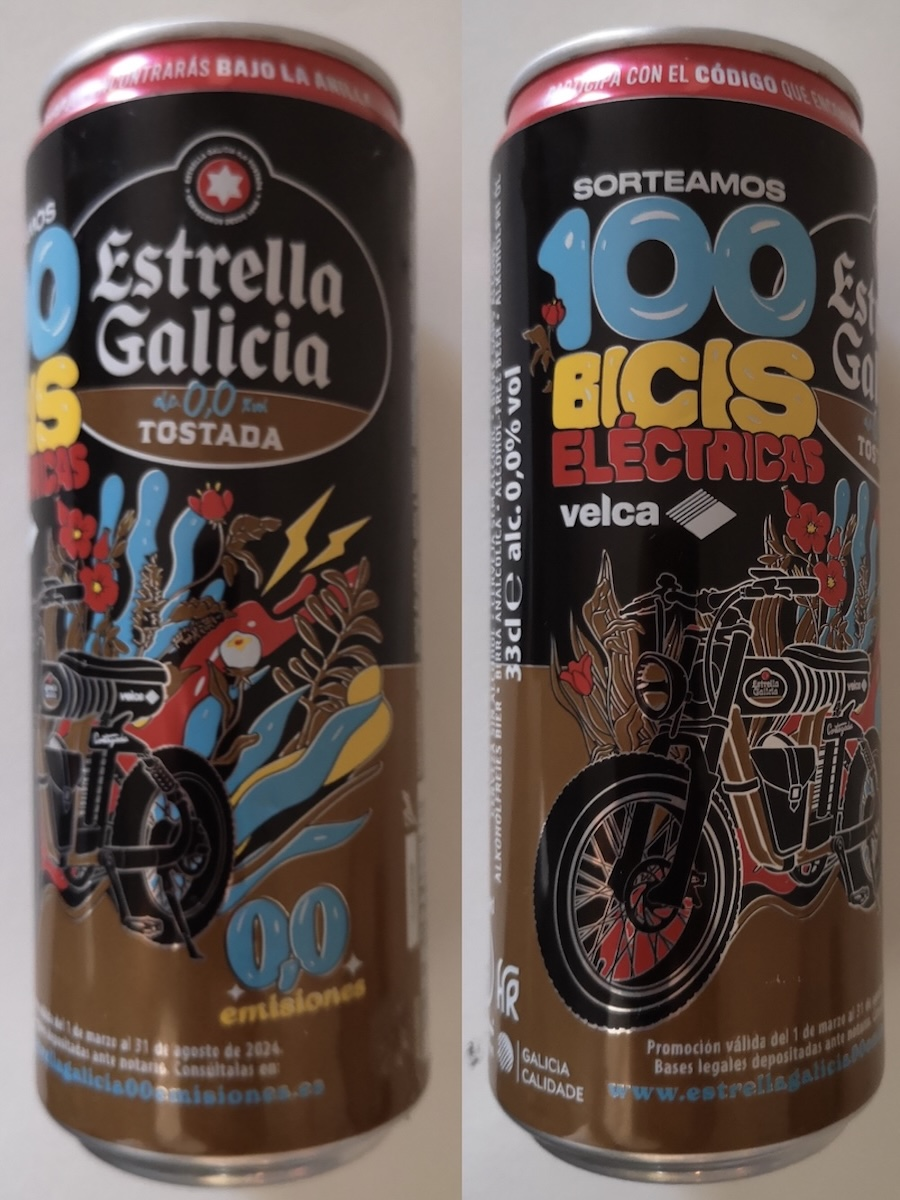
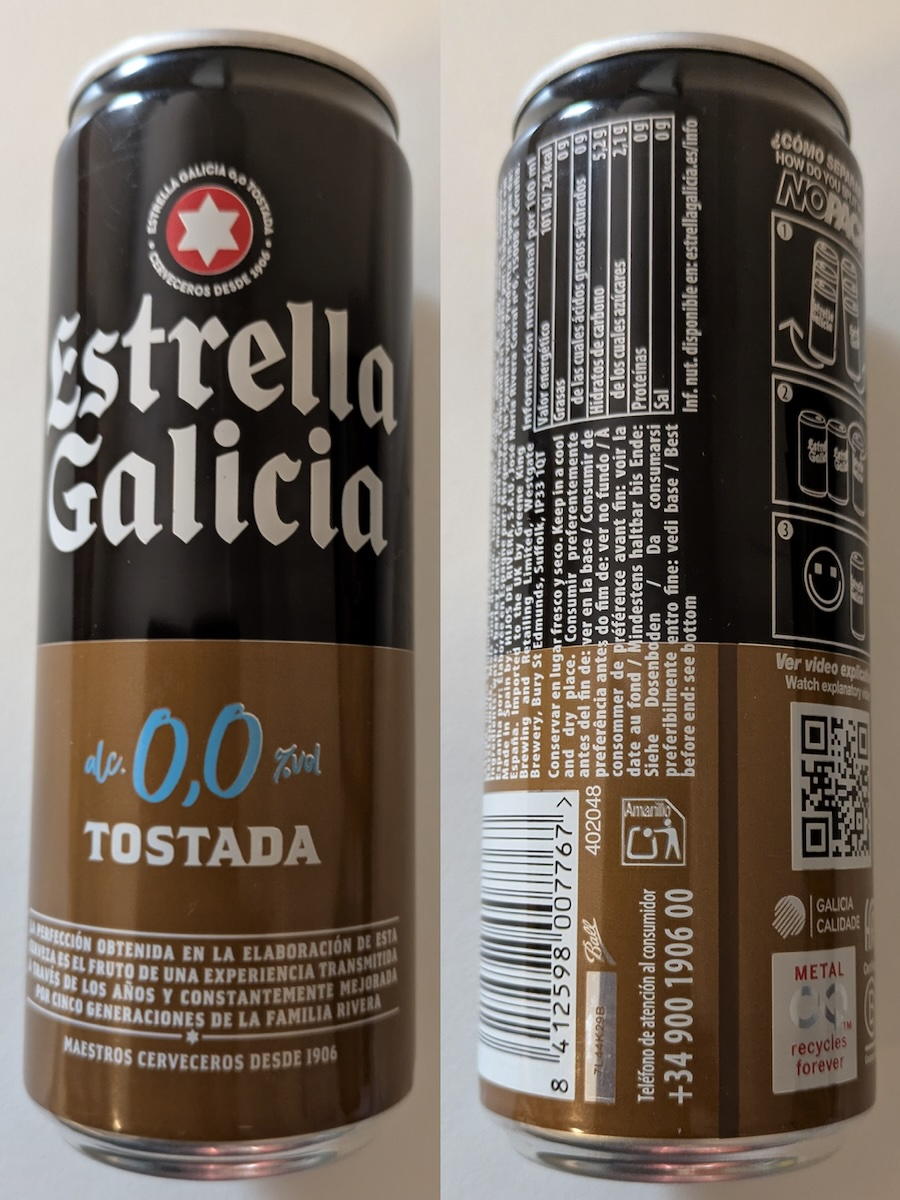
new

diff --git a/index.html b/index.html
@@ -69,9 +69,11 @@
             { name: 'San Miguel Radler 0,0%', brewery: 'San Miguel', country: 'Spain', targetMarket: 'Spain', continent: 'Europe', volume: '330ml', abv: '0,0%', year: '2024', image: 'img/Spain/SanMiguel/San_Miguel_Radler_0_330ml.jpg' },
             { name: 'San Miguel Radler', brewery: 'San Miguel', country: 'Spain', targetMarket: 'Spain', continent: 'Europe', volume: '330ml', abv: '3,2%', year: '2024', image: 'img/Spain/SanMiguel/San_Miguel_Radler_330ml.jpg' },
             { name: 'San Miguel Tostada 0,0%', brewery: 'San Miguel', country: 'Spain', targetMarket: 'Spain', continent: 'Europe', volume: '330ml', abv: '0,0%', year: '2024', image: 'img/Spain/SanMiguel/San_Miguel_Tostada_0_330ml.jpg' },
-            { name: 'Magna Cerveza', brewery: 'San Miguel', country: 'Spain', targetMarket: 'Spain', continent: 'Europe', volume: '330ml', abv: '5,7%', year: '2024', image: 'img/Spain/SanMiguel/Magna_Cerveza_330ml.jpg' },
+            { name: 'San Miguel Magna Cerveza', brewery: 'San Miguel', country: 'Spain', targetMarket: 'Spain', continent: 'Europe', volume: '330ml', abv: '5,7%', year: '2024', image: 'img/Spain/SanMiguel/Magna_Cerveza_330ml.jpg' },
+            { name: 'San Miguel Magna Tostada 0,0%', brewery: 'San Miguel', country: 'Spain', targetMarket: 'Spain', continent: 'Europe', volume: '330ml', abv: '0,0%', year: '2025', image: 'img/Spain/SanMiguel/San_Miguel_Magna_Tostada_0_330ml.jpg' },
             { name: 'Magna Cerveza Rubia', brewery: 'San Miguel', country: 'Spain', targetMarket: 'Spain', continent: 'Europe', volume: '330ml', abv: '5,7%', year: '2024', image: 'img/Spain/SanMiguel/Magna_Cervaza_Rubia_330ml.jpg' },
             { name: 'Cruzcampo Pilsen', brewery: 'Cruzcampo', country: 'Spain', targetMarket: 'Spain', continent: 'Europe', volume: '330ml', abv: '4,8%', year: '2024', image: 'img/Spain/Cruzcampo/Cruzcampo_330ml.jpg' },
+            { name: 'Cruzcampo Pilsen', brewery: 'Cruzcampo', country: 'Spain', targetMarket: 'Spain', continent: 'Europe', volume: '500ml', abv: '4,8%', year: '2025', image: 'img/Spain/Cruzcampo/Cruzcampo_500ml.jpg' },
             { name: 'Cruzcampo Radler', brewery: 'Cruzcampo', country: 'Spain', targetMarket: 'Spain', continent: 'Europe', volume: '330ml', abv: '2,0%', year: '2024', image: 'img/Spain/Cruzcampo/Cruzcampo_Radler_330ml.jpg' },
             { name: 'Cruzcampo 0,0% ', brewery: 'Cruzcampo', country: 'Spain', targetMarket: 'Spain', continent: 'Europe', volume: '330ml', abv: '0,0%', year: '2024', image: 'img/Spain/Cruzcampo/Cruzcampo_0_330ml.jpg' },
             { name: 'Cruzcampo Especial', brewery: 'Cruzcampo', country: 'Spain', targetMarket: 'Spain', continent: 'Europe', volume: '330ml', abv: '5,6%', year: '2024', image: 'img/Spain/Cruzcampo/Cruzcampo_Especial_330ml.jpg' },
@@ -84,6 +86,7 @@
             { name: 'Alhambra Especial', brewery: 'Alhambra', country: 'Spain', targetMarket: 'Spain', continent: 'Europe', volume: '250ml', abv: '5,4%', year: '2025', image: 'img/Spain/Alhambra/Alhambra_Especial_250ml.jpg' },
             { name: 'Alhambra Especial Sin 0,0%', brewery: 'Alhambra', country: 'Spain', targetMarket: 'Spain', continent: 'Europe', volume: '330ml', abv: '0,0%', year: '2024', image: 'img/Spain/Alhambra/Alhambra_Especial_0_330ml.jpg' },
             { name: 'Alhambra Tradicional', brewery: 'Alhambra', country: 'Spain', targetMarket: 'Spain', continent: 'Europe', volume: '330ml', abv: '4,6%', year: '2024', image: 'img/Spain/Alhambra/Alhambra_Tradicional_330ml.jpg' },
+            { name: 'Alhambra Tradicional', brewery: 'Alhambra', country: 'Spain', targetMarket: 'Spain', continent: 'Europe', volume: '500ml', abv: '4,6%', year: '2025', image: 'img/Spain/Alhambra/Alhambra_Tradicional_500ml.jpg' },
             { name: 'Alhambra Reserva 1925', brewery: 'Alhambra', country: 'Spain', targetMarket: 'Spain', continent: 'Europe', volume: '330ml', abv: '6,4%', year: '2024', image: 'img/Spain/Alhambra/Alhambra_Reserva_1925_330ml.jpg' },
             { name: 'Mahou Clasica', brewery: 'Mahou', country: 'Spain', targetMarket: 'Spain', continent: 'Europe', volume: '330ml', abv: '4,8%', year: '2024', image: 'img/Spain/Mahou/Mahou_Clasica_330ml.jpg' },
             { name: 'Mahou Clasica', brewery: 'Mahou', country: 'Spain', targetMarket: 'Spain', continent: 'Europe', volume: '330ml', abv: '4,8%', year: '2024', image: 'img/Spain/Mahou/Mahou_Clasica_2_330ml.jpg' },
@@ -105,8 +108,11 @@
             { name: 'El Aguila Sin Filtrar 0,0%', brewery: 'El Aguila', country: 'Spain', targetMarket: 'Spain', continent: 'Europe', volume: '330ml', abv: '0,0%', year: '2024', image: 'img/Spain/ElAguila/El_Aguila_0_330ml.jpg' },
             { name: 'Estrella Galicia Especial', brewery: 'Estrella Galicia', country: 'Spain', targetMarket: 'Spain', continent: 'Europe', volume: '330ml', abv: '5,5%', year: '2024', image: 'img/Spain/EstrellaGalicia/Estrella_Galicia_Especial_330ml.jpg' },
             { name: 'Estrella Galicia Especial', brewery: 'Estrella Galicia', country: 'Spain', targetMarket: 'Spain', continent: 'Europe', volume: '500ml', abv: '5,5%', year: '2024', image: 'img/Spain/EstrellaGalicia/Estrella_Galicia_Especial_500ml.jpg' },
+            { name: 'Estrella Galicia Sin Gluten', brewery: 'Estrella Galicia', country: 'Spain', targetMarket: 'Spain', continent: 'Europe', volume: '330ml', abv: '5,5%', year: '2025', image: 'img/Spain/EstrellaGalicia/Estrella_Galicia_Sin_Gluten_330ml.jpg' },
             { name: 'Estrella Galicia 0,0%', brewery: 'Estrella Galicia', country: 'Spain', targetMarket: 'Spain', continent: 'Europe', volume: '330ml', abv: '0,0%', year: '2024', image: 'img/Spain/EstrellaGalicia/Estrella_Galicia_0_330ml.jpg' },
-            { name: 'Estrella Galicia 0,0% Tostada', brewery: 'Estrella Galicia', country: 'Spain', targetMarket: 'Spain', continent: 'Europe', volume: '330ml', abv: '0,0%', year: '2024', image: 'img/Spain/EstrellaGalicia/Estrella_Galicia_0_Tostada_330ml.jpg' },
+            { name: 'Estrella Galicia 0,0% 100 Bicis', brewery: 'Estrella Galicia', country: 'Spain', targetMarket: 'Spain', continent: 'Europe', volume: '330ml', abv: '0,0%', year: '2025', image: 'img/Spain/EstrellaGalicia/Estrella_Galicia_Bicis_0_330ml.jpg' },
+            { name: 'Estrella Galicia 0,0% Tostada', brewery: 'Estrella Galicia', country: 'Spain', targetMarket: 'Spain', continent: 'Europe', volume: '330ml', abv: '0,0%', year: '2025', image: 'img/Spain/EstrellaGalicia/Estrella_Galicia_0_Tostada_330ml.jpg' },
+            { name: 'Estrella Galicia 0,0% Tostada 100 Bicis', brewery: 'Estrella Galicia', country: 'Spain', targetMarket: 'Spain', continent: 'Europe', volume: '330ml', abv: '0,0%', year: '2024', image: 'img/Spain/EstrellaGalicia/Estrella_Galicia_Bicis_0_Tostada_330ml.jpg' },
             { name: 'Estrella Galicia Lager de Verano', brewery: 'Estrella Galicia', country: 'Spain', targetMarket: 'Spain', continent: 'Europe', volume: '330ml', abv: '3,5%', year: '2024', image: 'img/Spain/EstrellaGalicia/Estrella_Galicia_Lager_de_Verano_330ml.jpg' },
             { name: 'Lupia Nugget', brewery: 'Estrella Galicia', country: 'Spain', targetMarket: 'Spain', continent: 'Europe', volume: '330ml', abv: '4,8%', year: '2025', image: 'img/Spain/EstrellaGalicia/Lupia_Nugget_330ml.jpg' },
             { name: 'B-Lemon Radler', brewery: 'Estrella Galicia', country: 'Spain', targetMarket: 'Spain', continent: 'Europe', volume: '330ml', abv: '2,2%', year: '2024', image: 'img/Spain/EstrellaGalicia/BLemon_Radler_330ml.jpg' },
@@ -172,6 +178,8 @@
             { name: 'Top Beer', brewery: 'Font Salem', country: 'Spain', targetMarket: 'Spain', continent: 'Europe', volume: '330ml', abv: '4,5%', year: '2024', image: 'img/Spain/FontSalem/Top_Beer_330ml.jpg' },
             { name: 'Wierquer Bier', brewery: 'Font Salem', country: 'Spain', targetMarket: 'World', continent: 'Europe', volume: '330ml', abv: '4,5%', year: '2025', image: 'img/Spain/FontSalem/Wierquer_330ml.jpg' },
             { name: 'Coviran Cerveza', brewery: 'Coviran', country: 'Spain', targetMarket: 'Spain', continent: 'Europe', volume: '500ml', abv: '4,5%', year: '2025', image: 'img/Spain/Coviran/Coviran_Cerveza_500ml.jpg' },
+            { name: 'Coviran Cerveza', brewery: 'Coviran', country: 'Spain', targetMarket: 'Spain', continent: 'Europe', volume: '330ml', abv: '4,5%', year: '2025', image: 'img/Spain/Coviran/Coviran_Cerveza_330ml.jpg' },
+            { name: 'Coviran Cerveza 0,0%', brewery: 'Coviran', country: 'Spain', targetMarket: 'Spain', continent: 'Europe', volume: '330ml', abv: '0,0%', year: '2025', image: 'img/Spain/Coviran/Coviran_Cerveza_0_330ml.jpg' },
             // endregion
             // region Germany
             { name: 'Paulaner Münchener Hell', brewery: 'Paulaner', country: 'Germany', targetMarket: 'Germany', continent: 'Europe', volume: '500ml', abv: '4,9%', year: '2024', image: 'img/Germany/Paulaner/Paulaner_Muenchener_Hell_500ml.jpg' },
